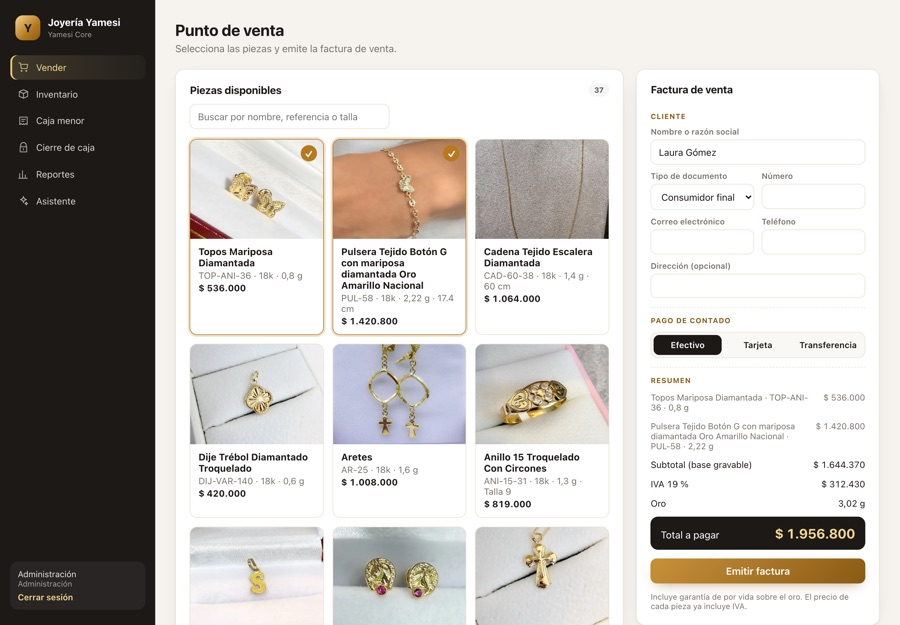
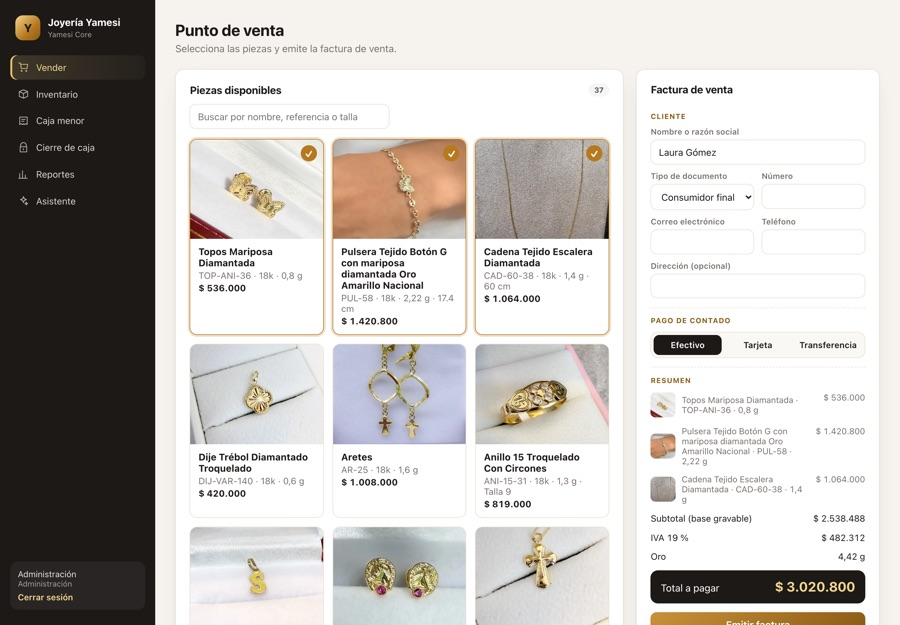
feat: real n8n execution screenshots and Yamesi photos on every sale line

Changed region(s): [[0.7156, 0.608, 0.9644, 1.0], [0.5289, 0.2128, 0.6844, 0.5472], [0.4978, 0.2432, 0.5289, 0.5168]]

diff --git a/src/content.ts b/src/content.ts
@@ -331,8 +331,8 @@ export const projects: Project[] = [
       { check: { en: 'Static analysis and secrets', es: 'Análisis estático y secretos' }, result: { en: 'CodeQL and Gitleaks green', es: 'CodeQL y Gitleaks en verde' }, href: `${repo('yamesi')}/actions` },
     ],
     screens: [
-      { src: '/media/yamesi-sell.jpg', alt: { en: 'Point of sale with catalog photos and the invoice panel', es: 'Punto de venta con fotos del catálogo y el panel de factura' }, width: 1600, height: 1111 },
-      { src: '/media/yamesi-invoice.jpg', alt: { en: 'Sales invoice PDF with references, gold weight, CUFE and QR', es: 'Factura de venta en PDF con referencias, peso del oro, CUFE y QR' }, width: 1236, height: 1600 },
+      { src: '/media/yamesi-sell.jpg', alt: { en: 'Point of sale with catalog photos; each line of the sale shows its piece', es: 'Punto de venta con fotos del catálogo; cada línea de la venta muestra su pieza' }, width: 1600, height: 1111 },
+      { src: '/media/yamesi-invoice.jpg', alt: { en: 'Sales invoice PDF: each line with the photo of its piece, reference, size and gold weight; CUFE and QR', es: 'Factura de venta en PDF: cada línea con la foto de su pieza, referencia, talla y peso del oro; CUFE y QR' }, width: 1236, height: 1600 },
       { src: '/media/yamesi-inventory.jpg', alt: { en: 'Inventory portal: the catalog with photos, stock value and filters', es: 'Portal de inventario: catálogo con fotos, valor del inventario y filtros' }, width: 1600, height: 1111 },
       { src: '/media/yamesi-edit.jpg', alt: { en: 'Editing a piece: price, size, reference and a new photo', es: 'Editar una pieza: precio, talla, referencia y nueva foto' }, width: 1600, height: 1111 },
       { src: '/media/yamesi-petty-cash.jpg', alt: { en: 'Petty cash with the receipt photos of the day', es: 'Caja menor con las fotos de los recibos del día' }, width: 1600, height: 1111 },
@@ -440,7 +440,9 @@ export const projects: Project[] = [
       { check: { en: 'Terraform for AWS', es: 'Terraform para AWS' }, result: { en: 'Validated in CI, never applied', es: 'Validado en CI, nunca aplicado' }, href: `${repo('opscircuit')}/tree/main/terraform/aws` },
     ],
     screens: [
-      { src: '/media/opscircuit-n8n.jpg', alt: { en: 'n8n incident intake workflow', es: 'Flujo de incidentes en n8n' }, width: 1600, height: 425 },
+      { src: '/media/opscircuit-n8n.jpg', alt: { en: 'n8n incident intake: a real execution, every step green from the webhook to the page', es: 'Ingreso de incidentes en n8n: una ejecución real, todos los pasos en verde del webhook al aviso' }, width: 1600, height: 436 },
+      { src: '/media/opscircuit-n8n-validate.jpg', alt: { en: 'n8n: validate, store the delivery, answer 202, fingerprint', es: 'n8n: validar, guardar la entrega, responder 202 y calcular la huella' }, width: 1180, height: 600 },
+      { src: '/media/opscircuit-n8n-notify.jpg', alt: { en: 'n8n: service catalog, incident upsert and the page to on-call', es: 'n8n: catálogo de servicios, upsert del incidente y aviso a guardia' }, width: 1120, height: 600 },
       { src: '/media/opscircuit-lock-timeout.jpg', alt: { en: 'An execution stopped by a lock timeout, recorded as a dead letter', es: 'Ejecución detenida por un lock timeout, registrada como dead letter' }, width: 1600, height: 1000 },
       { src: '/media/opscircuit-grafana.jpg', alt: { en: 'Grafana dashboard provisioned as code', es: 'Tablero de Grafana como código' }, width: 1600, height: 1143 },
       { src: '/media/opscircuit-alerts.jpg', alt: { en: 'Prometheus alert rules', es: 'Reglas de alerta en Prometheus' }, width: 1600, height: 1075 },
